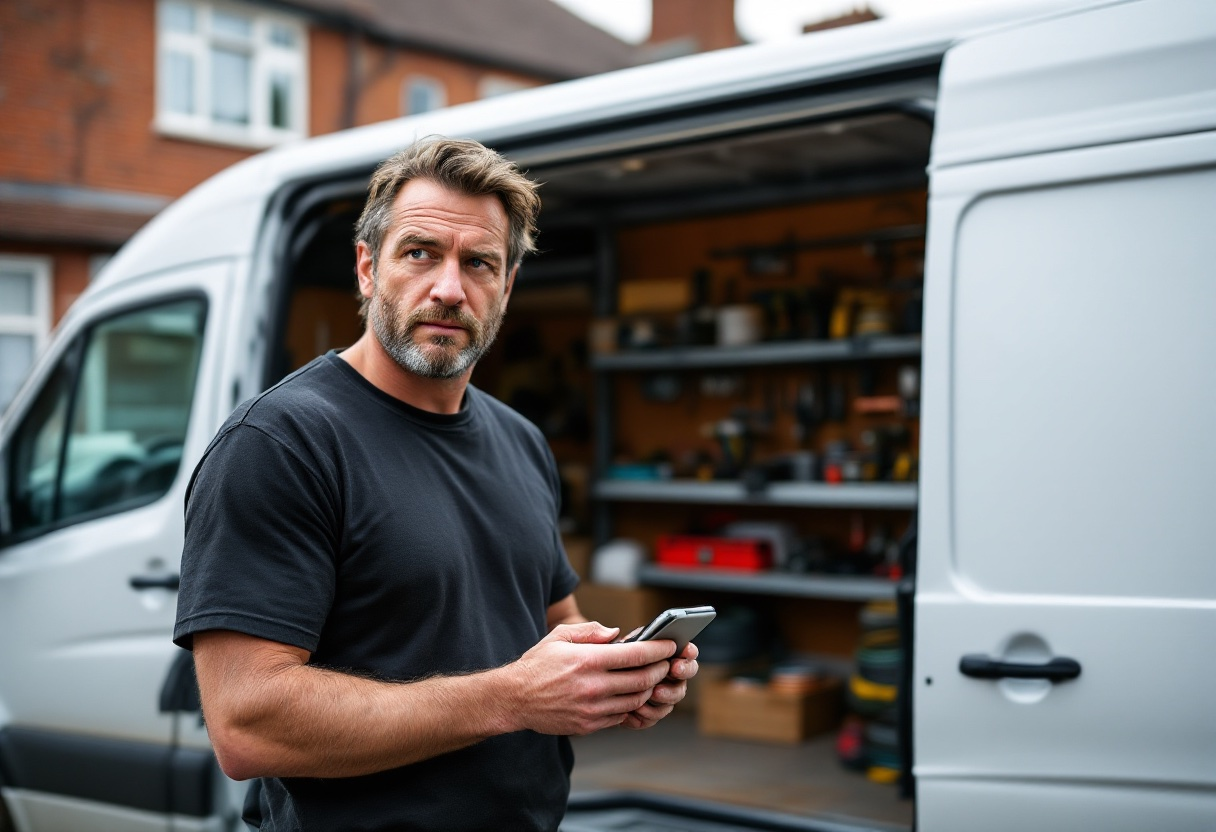
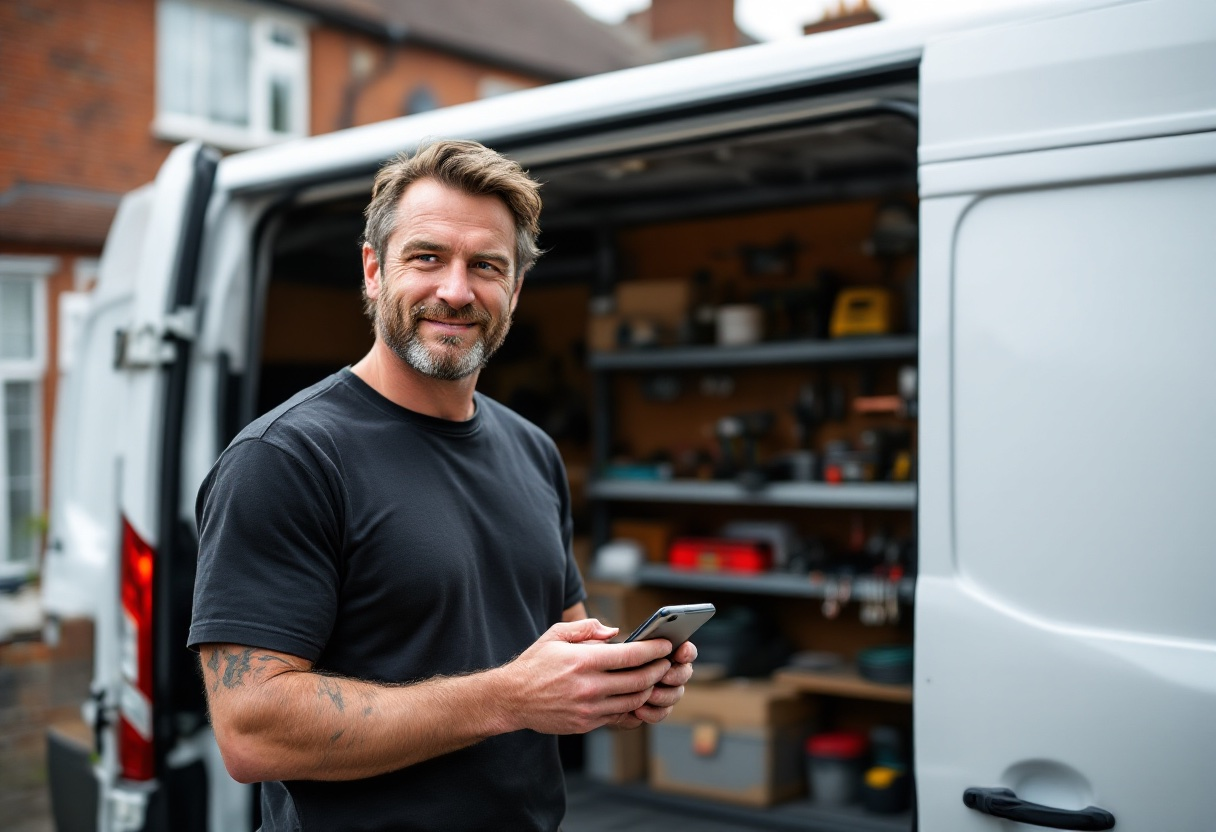
New hero photograph: YellowTradie.png, crop kept by measurement
The hero JPEG is rebuilt from Business/Website/Assets/YellowTradie.png
(1216 by 832) at quality 85, 204 KB against the 211 KB of man3.png it
replaces. Every reference is bumped to ?v=4 in index.html and
changelog.html, because a same-name swap is answered from the browser's
own cache.

The crop did not move, and that is measured rather than assumed: the
frame is the same size and shape and the strip the longest headline line
reaches into reads a median luminance of 51 against 62 for the file it
replaced, so the headline sits on pixels slightly darker than the ones
already approved. The rendered hero reads mean 73 either side of the
swap. object-position stays 30% center.

Changelog and feed carry a new entry, both article:modified_time stamps
move to 18:01, and CREDITS.md carries the measurements and the swap
procedure.

diff --git a/changelog.html b/changelog.html
@@ -14,9 +14,9 @@
 <meta property="og:title" content="What's new in YellowTradie">
 <meta property="og:description" content="What has changed on the site and in the early access programme, newest first.">
 <meta property="og:url" content="https://yellowtradie.com/changelog.html">
-<meta property="og:image" content="https://yellowtradie.com/assets/hero.jpg?v=3">
+<meta property="og:image" content="https://yellowtradie.com/assets/hero.jpg?v=4">
 <meta name="twitter:card" content="summary_large_image">
-<meta property="article:modified_time" content="2026-09-22T17:46:00+01:00">
+<meta property="article:modified_time" content="2026-09-22T18:01:00+01:00">
 
 <link rel="alternate" type="application/rss+xml" title="YellowTradie what's new" href="/feed.xml">
 <link rel="preconnect" href="https://fonts.googleapis.com">
@@ -60,6 +60,11 @@
       <h2 class="display display--xs group-title" style="margin-top: 40px;"><time datetime="2026-09-22">22 September 2026</time></h2>
 
       <div class="grid" style="gap: 16px;">
+
+        <article class="card" id="hero-photo-again">
+          <h3 class="display display--xs">The photograph at the top of the page has changed again</h3>
+          <p>A different picture is in the hero. It is the same size in the same frame, its edges still fade into the black, and on a phone it is still left out so the words get the whole width. The crop and the layout are unchanged. Only the picture is different.</p>
+        </article>
 
         <article class="card" id="three-sections-off">
           <h3 class="display display--xs">Three sections have come off the page</h3>

diff --git a/index.html b/index.html
@@ -15,9 +15,9 @@
 <meta property="og:title" content="Run your whole trade business from your phone | YellowTradie">
 <meta property="og:description" content="Take the message when you miss a call, quote by voice, invoice the job and keep the figures for your quarterly tax. Built for one person.">
 <meta property="og:url" content="https://yellowtradie.com/">
-<meta property="og:image" content="https://yellowtradie.com/assets/hero.jpg?v=3">
+<meta property="og:image" content="https://yellowtradie.com/assets/hero.jpg?v=4">
 <meta name="twitter:card" content="summary_large_image">
-<meta property="article:modified_time" content="2026-09-22T17:46:00+01:00">
+<meta property="article:modified_time" content="2026-09-22T18:01:00+01:00">
 
 <link rel="preconnect" href="https://fonts.googleapis.com">
 <link rel="preconnect" href="https://fonts.gstatic.com" crossorigin>
@@ -58,7 +58,7 @@
        ===================================================================== -->
   <section class="hero" id="hero">
     <div class="hero-media" aria-hidden="true">
-      <img src="assets/hero.jpg?v=3" width="1216" height="832" alt="" fetchpriority="high">
+      <img src="assets/hero.jpg?v=4" width="1216" height="832" alt="" fetchpriority="high">
     </div>
 
     <div class="wrap hero-inner">

diff --git a/assets/CREDITS.md b/assets/CREDITS.md
@@ -3,31 +3,41 @@
 ## Hero photograph
 
 `hero.jpg` is the photograph on the front page. It was replaced on 2026-09-22
-16:10: it came from `Business/Website/Assets/man3.png` (1216 by 832) and was
-converted to JPEG at quality 85, which is 211 KB against the 219 KB of the file
-it replaced. It replaced `Business/Website/Assets/standing-next-van.png`, which
-is still in the vault and still in git history.
+18:01: it came from `Business/Website/Assets/YellowTradie.png` (1216 by 832) and
+was converted to JPEG at quality 85, which is 204 KB against the 211 KB of the
+file it replaced. `man3.png`, the same morning's hero, is still in the vault and
+still in git history, as is `standing-next-van.png` before it.
 
 - Provenance: not recorded. Ask Pete before reusing it anywhere else.
 - Licence: not stated, so the page makes no licence claim and the footer carries
   no credit line (Pete's call, 2026-09-22). The line that was there before
-  credited a rawpixel CC0 photograph, which neither of these files uses.
+  credited a rawpixel CC0 photograph, which none of these files uses.
 
-Nobody has looked at this file with human eyes in this session (this model has no
-image input), so it was checked by measurement instead. What the measurements
-say: the frame is a wide one, 1.46 to 1, with the bright end on the right (the
-right quarter averages 176 to 201 of 255 and carries almost no detail) and the
-busy, warm part in the left half. 27% of the frame is near black.
+Nobody has looked at this file with human eyes (this model has no image input), so
+it was checked by measurement instead, and the swap was made like for like. What
+the measurements say: the frame is a wide one, 1.462 to 1, exactly the size and
+shape of the file it replaced, and its tonality is near identical. Overall mean
+luminance 112, the same as `man3.png`; 23.8% of the frame near black against
+22.6%; 31.8% bright against 30.6%. The bright end is the right quarter, which
+carries almost no detail, and the busy part is left of centre.
 
-**The crop is the one thing to re-check by eye.** The hero box is 55% of the
-screen wide and full height, so `object-fit: cover` shows only 60% of this frame
-at 1440 and 50% at 1024. `object-position` on `.hero-media img` in `styles.css`
-is the single number that moves it, and it is set to `30% center`. That was chosen
-by measurement, not by eye: it keeps the busy left half of the frame inside the
-mask's clear zone and keeps the headline on the dark part of the picture. The
-strip the longest headline line reaches into reads a median luminance of 45 at
-30%, against 27 on the photograph it replaced and 78 at 20%. Lower numbers put
-this frame's bright left side behind the words. Higher numbers fade the subject.
+**The crop did not need to move, and that is a measurement, not an assumption.**
+The hero box is 55% of the screen wide and full height, so `object-fit: cover`
+shows only 60% of this frame at 1440 and 50% at 1024. `object-position` on
+`.hero-media img` in `styles.css` stays at `30% center`, because at that setting
+the strip the longest headline line reaches into reads a median luminance of 51,
+against 62 for the photograph it replaced. So the headline sits on pixels slightly
+darker than the ones already approved, the visible window is the same 12% to 72%
+of the frame, and the featureless bright right quarter stays cropped out exactly
+as before. The rendered hero confirms it: mean luminance 73 either side of the
+swap, and the copy strip 72 against 74. Lower `object-position` numbers put this
+frame's bright left side behind the words; higher numbers fade the subject.
+
+The measurement tool is `scripts/hero-image-profile.mjs`: it renders the real page
+at 1440, reads the hero box and the copy column, decodes each candidate file, and
+reports the luminance under the headline for every candidate crop. It also prints
+the pixel difference between two files, which is how this swap was shown to be
+like for like before a single page file was touched.
 
 Swap instructions, in one line: put your file at
 `yellowtradie-site/assets/hero.jpg`, keep the name, then bump the `?v=` number on
@@ -36,7 +46,7 @@ every reference in `index.html` and `changelog.html` (the `<img src>` and two
 no cache headers, so a same-name swap is answered from the browser's own stored
 copy and the new photograph never appears. That is exactly what happened on
 2026-09-22, when the first swap looked like it had failed while the server was
-already handing out the new file. The current number is `?v=3`.
+already handing out the new file. The current number is `?v=4`.
 
 `scripts/verify-site-modal.mjs` now guards all three of these: that the file is
 versioned and actually loaded, that it is masked so it has no hard edge, and that

diff --git a/README.md b/README.md
@@ -155,8 +155,9 @@ automatic on all three.
 ## Images
 
 The hero photograph is Pete's own, converted from
-`Business/Website/Assets/man3.png` on 2026-09-22 16:10, and its provenance is not
-recorded anywhere, so no licence is claimed for it. The five app screens are full
+`Business/Website/Assets/YellowTradie.png` on 2026-09-22 18:01, and its provenance
+is not recorded anywhere, so no licence is claimed for it. It replaced
+`man3.png`, the same morning's hero, which is still in the vault. The five app screens are full
 phone captures from the test phone, running sample data, and they came off the
 page on 2026-09-22; the files are kept so the section can come back. `assets/CREDITS.md` lists
 every image and what is known about it. Keep that file current, because a
@@ -166,10 +167,14 @@ be replaced by measurement.
 **Two numbers on the hero photograph come from measurement, not taste**, and both
 live in the `.hero-media img` block of `styles.css`: the `?v=` version on the URL,
 which is what stops a swap being answered out of the browser's cache, and
-`object-position: 30% center`, which decides what the cover crop shows. The box is
+`object-position: 30% center`, which decides what the cover crop shows. The crop
+was re-checked when the photograph changed at 18:01 and did not move, because the
+new frame is the same size and shape and reads slightly darker under the headline
+than the one it replaced. The box is
 55% of the screen wide and full height, so only 60% of a wide photograph survives
 the crop at 1440 and 50% at 1024. `CREDITS.md` carries the reasoning and the one
-line to change if the framing is wrong.
+line to change if the framing is wrong, and `scripts/hero-image-profile.mjs`
+measures it.
 
 ## The clip in the early access band
 
